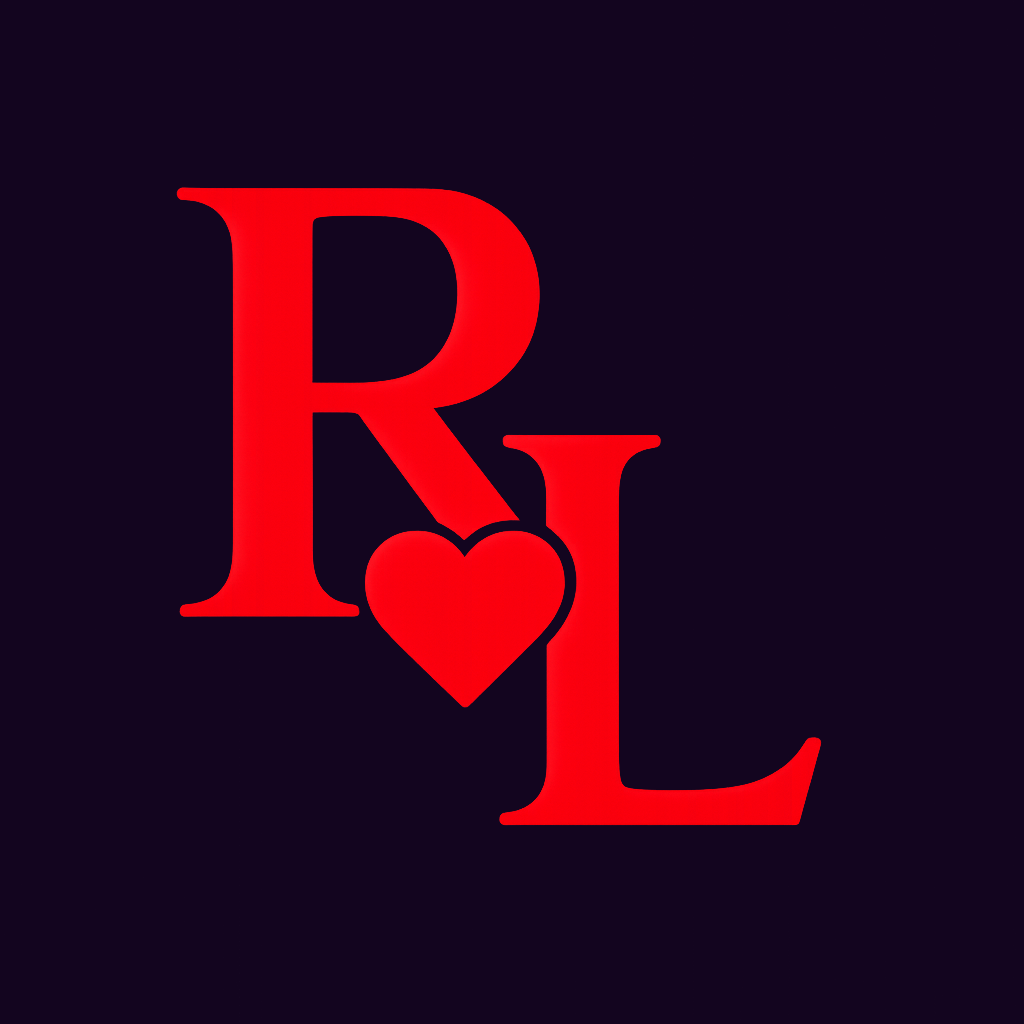
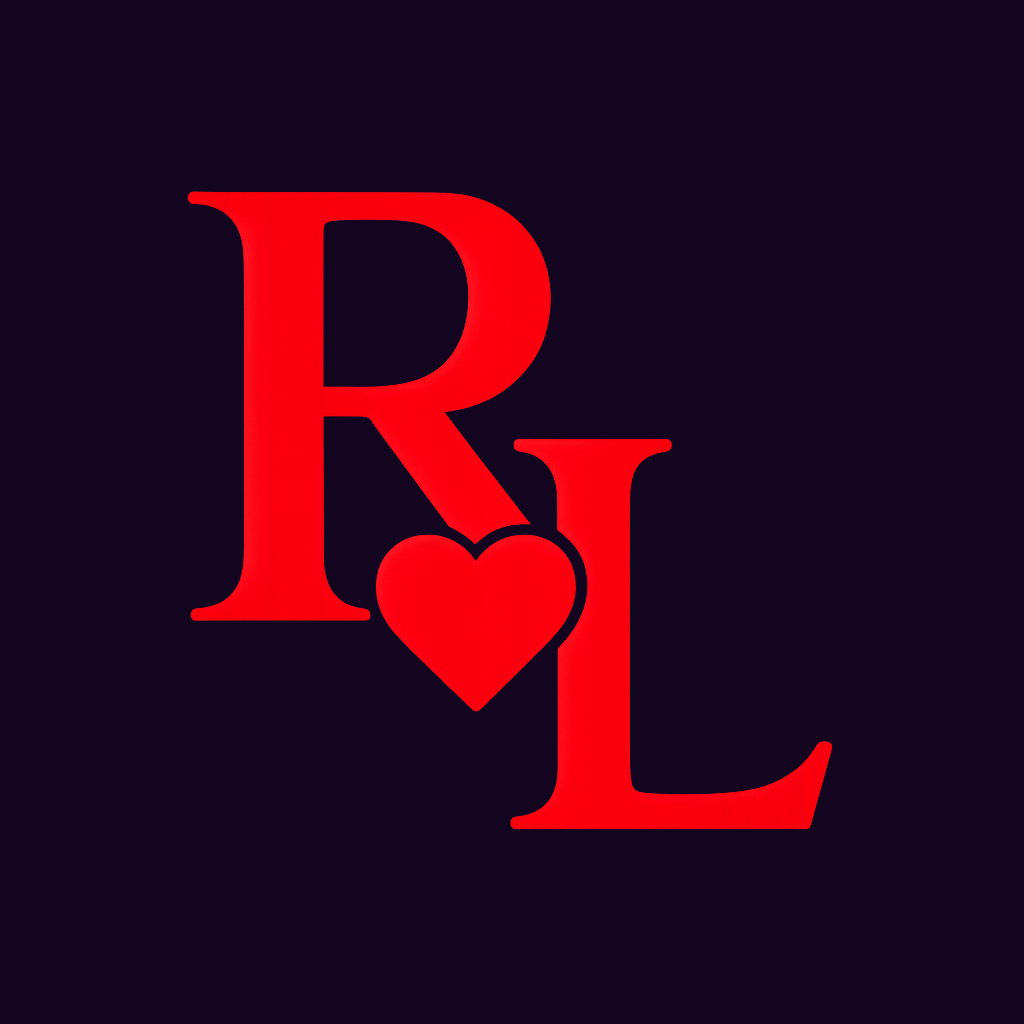
Major fix store submiussion

diff --git a/src/screens/app-screens.tsx b/src/screens/app-screens.tsx
@@ -111,7 +111,7 @@ const LEGAL_CONTENT: Record<LegalKind, LegalContent> = {
 const MATCH_MAKER_SWIPE_THRESHOLD = 90;
 const MATCH_MAKER_SUPERLIKE_THRESHOLD = 85;
 const WEBRTC_NATIVE_BUILD_MESSAGE =
-  'WebRTC native module not found. Voice and video calls require the custom RedLOVE Expo development build or a production build. Expo Go cannot load react-native-webrtc. If this is already a dev build, rebuild and reinstall it after native dependency changes.';
+  'WebRTC native module not found. Voice and video calls require the custom RedLove Expo development build or a production build. Expo Go cannot load react-native-webrtc. If this is already a dev build, rebuild and reinstall it after native dependency changes.';
 
 const MOODS = [
   "Let's hang out",
@@ -128,7 +128,7 @@ const MOODS = [
 
 const ONBOARDING_STEPS = [
   {
-    eyebrow: 'RedLOVE',
+    eyebrow: 'RedLove',
     title: 'Find real connections',
     body: 'Meet people who like you for who you are.',
   },
@@ -2768,7 +2768,7 @@ export function ChatScreen() {
           <ChatCallOverlay
             phase={callPhase}
             kind={callKind}
-            otherName={otherUser?.displayName ?? incomingCall?.display_name ?? 'RedLOVE user'}
+            otherName={otherUser?.displayName ?? incomingCall?.display_name ?? 'RedLove user'}
             localStream={localStream}
             remoteStream={remoteStream}
             muted={callMuted}
@@ -4324,7 +4324,7 @@ export function SettingsScreen() {
   }
 
   function confirmLogout() {
-    Alert.alert('Log out', 'You will need to sign in again to use RedLOVE Today.', [
+    Alert.alert('Log out', 'You will need to sign in again to use RedLove.', [
       { text: 'Cancel', style: 'cancel' },
       { text: 'Log out', style: 'destructive', onPress: () => void logout() },
     ]);
@@ -4420,7 +4420,7 @@ export function SettingsScreen() {
           <SettingsSection title="Legal">
             <SettingsRow icon="shield" label="Privacy" value="Privacy Policy" onPress={() => router.push('/(legal)/privacy' as Href)} />
             <SettingsRow icon="file" label="Terms" value="Terms of Service" onPress={() => router.push('/(legal)/terms' as Href)} />
-            <SettingsRow icon="about" label="About" value="RedLOVE Today mobile" onPress={() => Alert.alert('About RedLOVE Today', 'Version 1.0.0')} />
+            <SettingsRow icon="about" label="About" value="RedLove mobile" onPress={() => Alert.alert('About RedLove', 'Version 1.0.0')} />
           </SettingsSection>
 
           <SettingsSection title="Session">
@@ -4568,7 +4568,7 @@ export function PremiumScreen() {
       <Modal visible={Boolean(pendingPayment)} title="Complete PayPal payment" onClose={() => setPendingPayment(null)} onRequestClose={() => setPendingPayment(null)}>
         <View style={styles.gap}>
           <Text style={styles.bold}>{pendingPayment?.title}</Text>
-          <Text variant="muted">After approving the payment in PayPal, return here and confirm so RedLOVE can capture the order.</Text>
+          <Text variant="muted">After approving the payment in PayPal, return here and confirm so RedLove can capture the order.</Text>
           {pendingPayment?.approvalUrl ? (
             <Button title="Open PayPal again" variant="outline" onPress={() => void openPaymentProvider(pendingPayment.orderId, pendingPayment.approvalUrl)} />
           ) : null}
@@ -4630,7 +4630,7 @@ export function CreditsScreen() {
       <Modal visible={Boolean(pendingPayment)} title="Complete PayPal payment" onClose={() => setPendingPayment(null)} onRequestClose={() => setPendingPayment(null)}>
         <View style={styles.gap}>
           <Text style={styles.bold}>{pendingPayment?.title}</Text>
-          <Text variant="muted">After approving the payment in PayPal, return here and confirm so RedLOVE can capture the order.</Text>
+          <Text variant="muted">After approving the payment in PayPal, return here and confirm so RedLove can capture the order.</Text>
           {pendingPayment?.approvalUrl ? (
             <Button title="Open PayPal again" variant="outline" onPress={() => void openPaymentProvider(pendingPayment.orderId, pendingPayment.approvalUrl)} />
           ) : null}
@@ -4838,9 +4838,9 @@ export function GuardianUserDetailScreen() {
 export function ContentScreen({ kind }: { kind: 'download' | 'showcase' | 'ad' }) {
   useTheme();
   const copy = {
-    download: ['Download', 'Install RedLOVE Today on iOS and Android when store builds are available.'],
-    showcase: ['Showcase', 'Preview the RedLOVE Today mobile experience.'],
-    ad: ['Ad template', 'Campaign creative for RedLOVE Today.'],
+    download: ['Download', 'Install RedLove on iOS and Android when store builds are available.'],
+    showcase: ['Showcase', 'Preview the RedLove mobile experience.'],
+    ad: ['Ad template', 'Campaign creative for RedLove.'],
   }[kind];
   return (
     <ScreenWrapper title={copy[0]}>

diff --git a/src/constants/theme.ts b/src/constants/theme.ts
@@ -86,8 +86,8 @@ export const themePalettes: Record<ThemeMode, ThemeColors> = {
 
 export const themeOptions: { mode: ThemeMode; label: string; description: string }[] = [
   { mode: 'light', label: 'White', description: 'Clean bright mode for daily use.' },
-  { mode: 'dark', label: 'Dark', description: 'The original RedLOVE dark look.' },
-  { mode: 'rose', label: 'Rose', description: 'A softer RedLOVE blush theme.' },
+  { mode: 'dark', label: 'Dark', description: 'The original RedLove dark look.' },
+  { mode: 'rose', label: 'Rose', description: 'A softer RedLove blush theme.' },
 ];
 
 export const DEFAULT_THEME_MODE: ThemeMode = 'dark';

diff --git a/src/utils/constants.ts b/src/utils/constants.ts
@@ -1,4 +1,4 @@
-export const APP_NAME = 'RedLOVE Today';
+export const APP_NAME = 'RedLove';
 
 export const GENDERS = ['man', 'woman', 'trans', 'nonbinary'] as const;
 

diff --git a/README.md b/README.md
@@ -1,6 +1,6 @@
-# RedLOVE Today Mobile
+# RedLove Mobile
 
-React Native and Expo mobile client for the RedLOVE Today dating platform.
+React Native and Expo mobile client for the RedLove dating platform.
 
 This app ports the existing `RedLovetoday-web` user flows to native iOS and Android while preserving the existing backend API contracts. The current implementation is typed, route-complete for the implemented mobile screens, and wired to the web backend through the service layer in `src/services`.
 